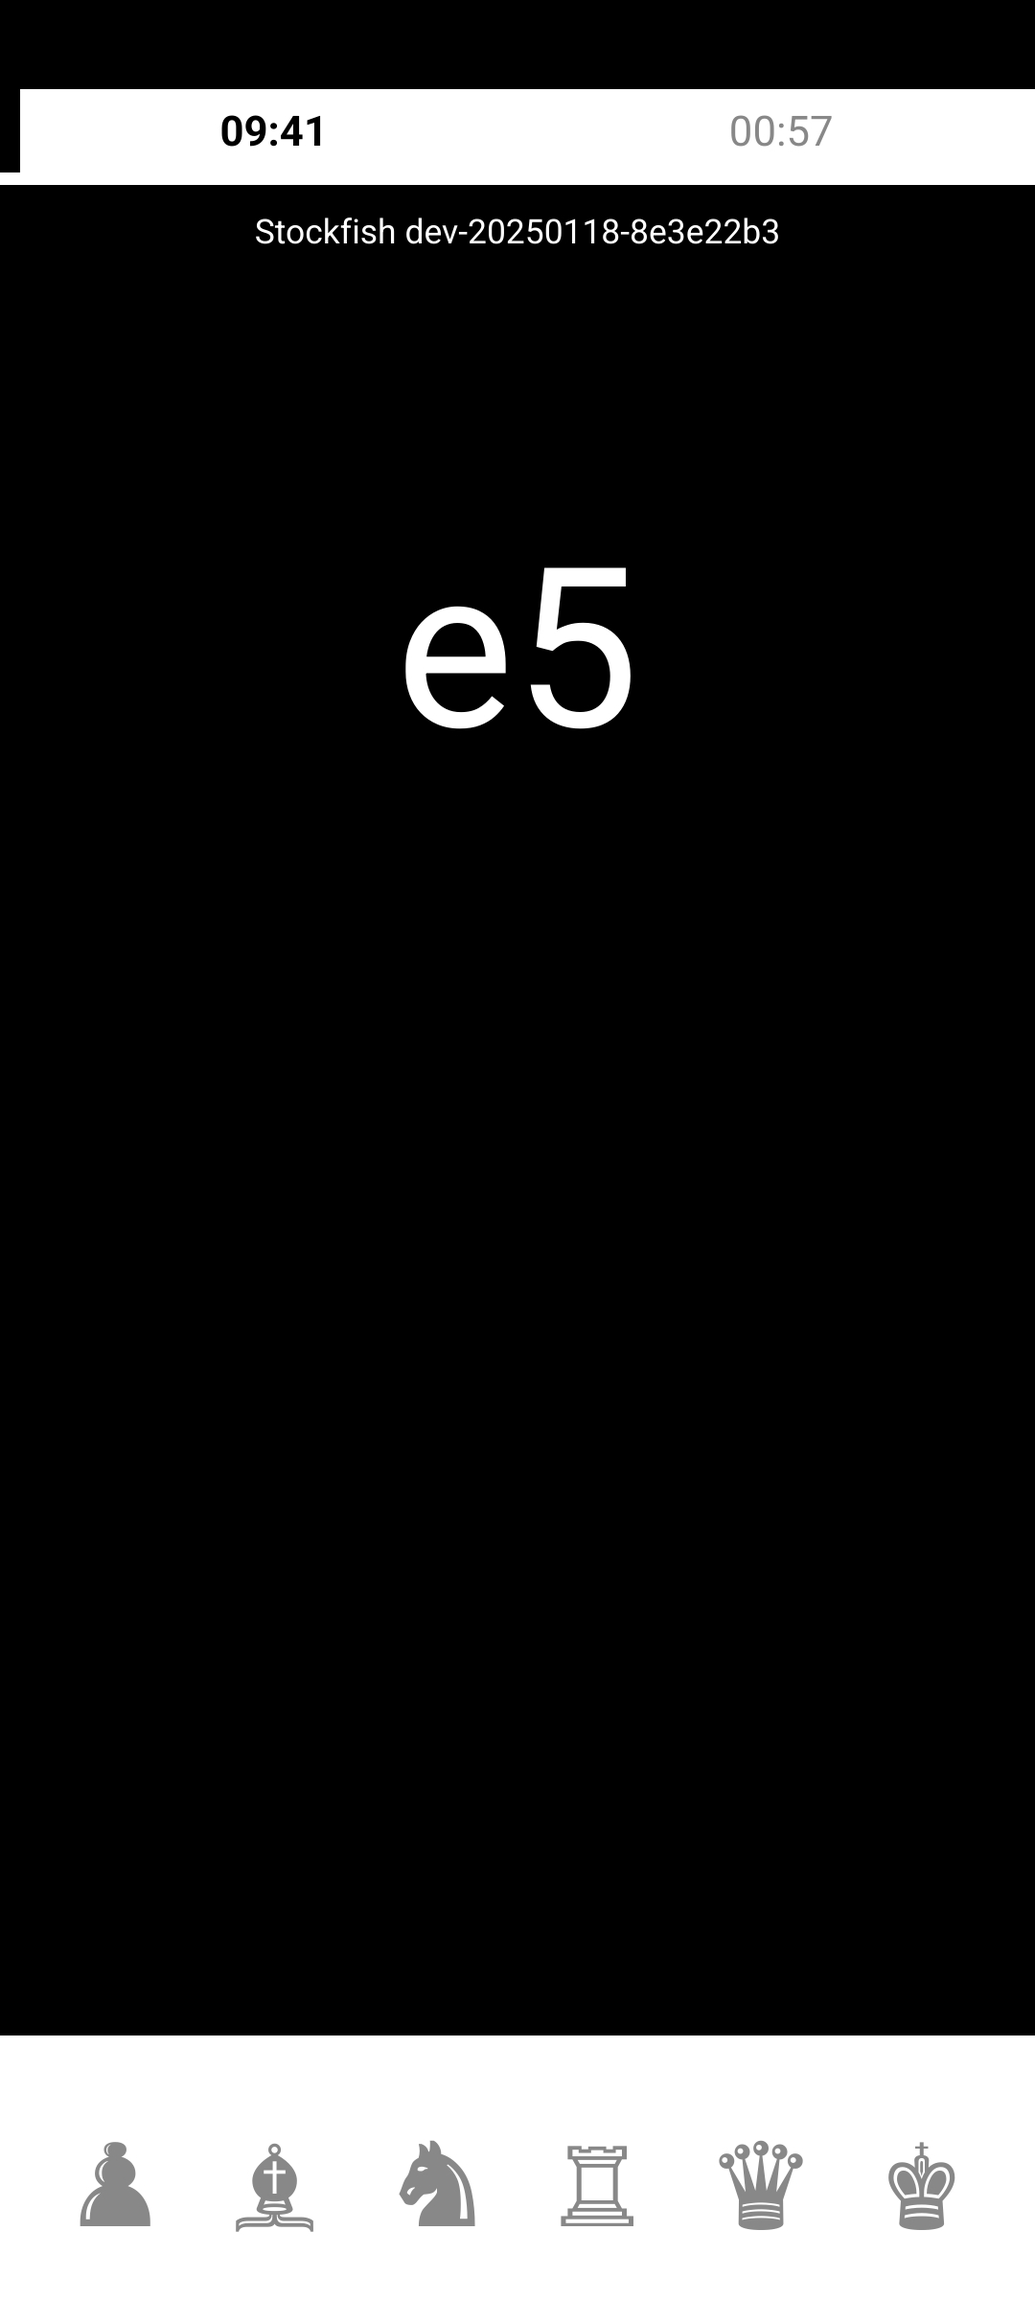
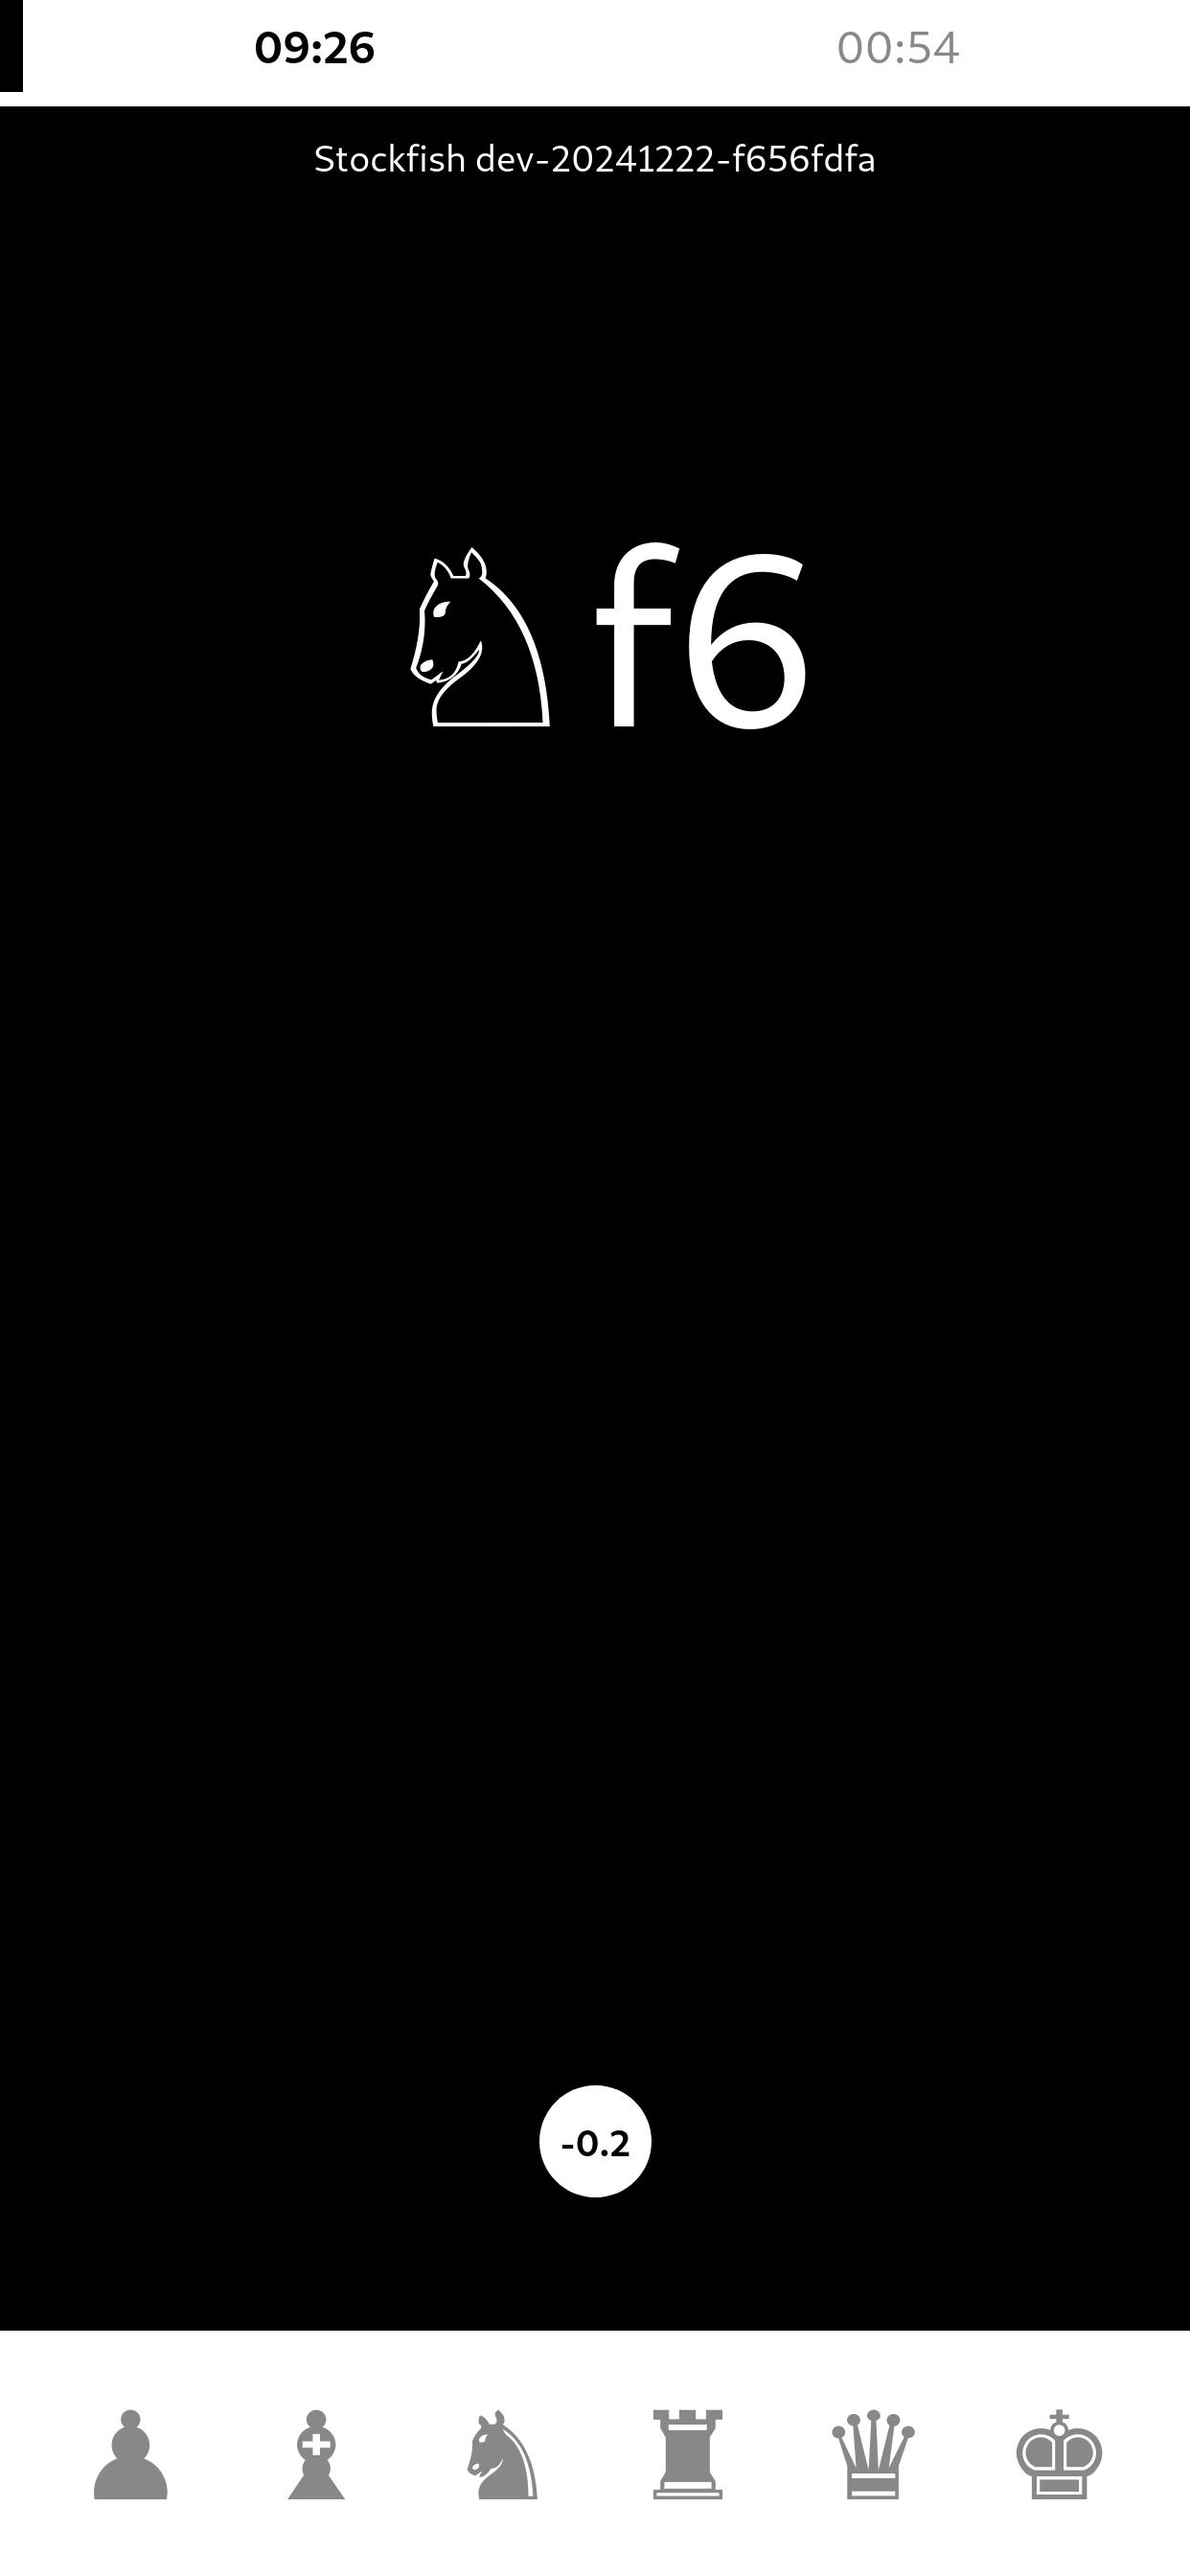
better socre styling

diff --git a/clients/apps/play/input.ts b/clients/apps/play/input.ts
@@ -41,6 +41,7 @@ import {
   WHITE_KING,
   ROLE_LIST,
   show,
+  hide,
 } from "./util";
 
 const symbol = (role: Role, color: Color) => {
@@ -78,13 +79,18 @@ const selClass = (s: boolean) => (s ? "selected" : "");
 
 const renderPieces = (selected: Nullable<Role>, moveList: Move[]) =>
   ROLE_LIST.map((role) =>
-    events(
-      DIV(
-        `piece ${role}  ${selClass(selected === role)}`,
-        symbol(role, hasMoves(role, moveList) ? "black" : "white")
-      ),
-      (add) => add("click", () => assign("input", inputRole(role)))
-    )
+    hasMoves(role, moveList)
+      ? events(
+          DIV(
+            `piece ${role}  ${selClass(selected === role)}`,
+            symbol(role, "black")
+          ),
+          (add) => add("click", () => assign("input", inputRole(role)))
+        )
+      : DIV(
+          `piece ${role}  ${selClass(selected === role)}`,
+          symbol(role, "white")
+        )
   );
 
 const playMove = (move: Move) => {
@@ -207,10 +213,12 @@ export const mountInput = (root: HTMLElement) => {
       const input = get("input");
       const selectedRole = getInputRole(input);
       replacePieces(...renderPieces(selectedRole, pos.legalMoves));
-      if (input._tag === "role") {
+      if (input._tag === "role" && pos.legalMoves.length > 0) {
         // replaceMoves(...renderMoves(input.role, pos.legalMoves));
+        show(moves);
         replaceMoves(...renderMoves2(input.role, pos.legalMoves));
       } else {
+        hide(moves);
         emptyElement(moves);
       }
     } else {

diff --git a/clients/apps/play/style.less b/clients/apps/play/style.less
@@ -36,6 +36,9 @@
 
 @clock-height: 24pt;
 
+@score-cp-size: 3em;
+@score-cp-size-half: calc(3em / 2);
+
 .A1,
 .C1,
 .E1,
@@ -132,12 +135,23 @@
   .score {
     position: absolute;
     font-size: small;
-    top: 22px;
-    height: 32px;
+    bottom: 4 * @piece-size;
     width: 100%;
     text-align: center;
     font-weight: bold;
-    color: @text-grey;
+
+    .score-cp,
+    .score-none {
+      position: absolute;
+      width: @score-cp-size;
+      height: @score-cp-size;
+      text-align: center;
+      background-color: white;
+      color: black;
+      line-height: @score-cp-size;
+      border-radius: @score-cp-size-half;
+      left: calc(50% - @score-cp-size-half);
+    }
   }
 
   .idle {
@@ -216,7 +230,7 @@
     flex-wrap: wrap;
     align-content: flex-end;
     justify-content: center;
-    padding-top: 1em;
+    padding-top: 2em;
 
     .select {
       display: flex;

diff --git a/clients/apps/play/style.css b/clients/apps/play/style.css
@@ -106,12 +106,22 @@
 .engine .score {
   position: absolute;
   font-size: small;
-  top: 22px;
-  height: 32px;
+  bottom: 128pt;
   width: 100%;
   text-align: center;
   font-weight: bold;
-  color: #888;
+}
+.engine .score .score-cp,
+.engine .score .score-none {
+  position: absolute;
+  width: 3em;
+  height: 3em;
+  text-align: center;
+  background-color: white;
+  color: black;
+  line-height: 3em;
+  border-radius: calc(3em / 2);
+  left: calc(50% - calc(3em / 2));
 }
 .engine .idle {
   font-size: x-large;
@@ -165,7 +175,7 @@
   flex-wrap: wrap;
   align-content: flex-end;
   justify-content: center;
-  padding-top: 1em;
+  padding-top: 2em;
 }
 .input .moves .select {
   display: flex;

diff --git a/clients/apps/play/engine.ts b/clients/apps/play/engine.ts
@@ -7,12 +7,12 @@ import { assign, get, getPlayerColor, getTurn, subscribe } from "./store";
 const renderScore = (score: EngineScore) => {
   switch (score._tag) {
     case "None":
-      return DIV("score score-none", "??");
+      return DIV(" score-none", "??");
     case "CentiPawns":
-      return DIV("score score-cp", (score.score / 100).toFixed(1));
+      return DIV(" score-cp", (score.score / 100).toFixed(1));
     case "Mate":
       return DIV(
-        "score score-mate ",
+        " score-mate ",
         score.moves < 0
           ? `Engine fears a mate in ${Math.abs(score.moves)}`
           : `Engine sees you  mate in ${score.moves}`

diff --git a/clients/apps/dist/play/index.html b/clients/apps/dist/play/index.html
@@ -6,8 +6,8 @@
     <link rel="icon" type="image/svg+xml" href="/play/ucui.svg" />
     <meta name="viewport" content="width=device-width, initial-scale=1.0" />
     <title>ucui</title>
-  <script type="module" crossorigin src="/play/assets/index-CZLAQKhU.js"></script>
-  <link rel="stylesheet" crossorigin href="/play/assets/index-hI7NKGa2.css">
+  <script type="module" crossorigin src="/play/assets/index-B7cwuTeB.js"></script>
+  <link rel="stylesheet" crossorigin href="/play/assets/index-DndPKVES.css">
 </head>
 
 <body>
